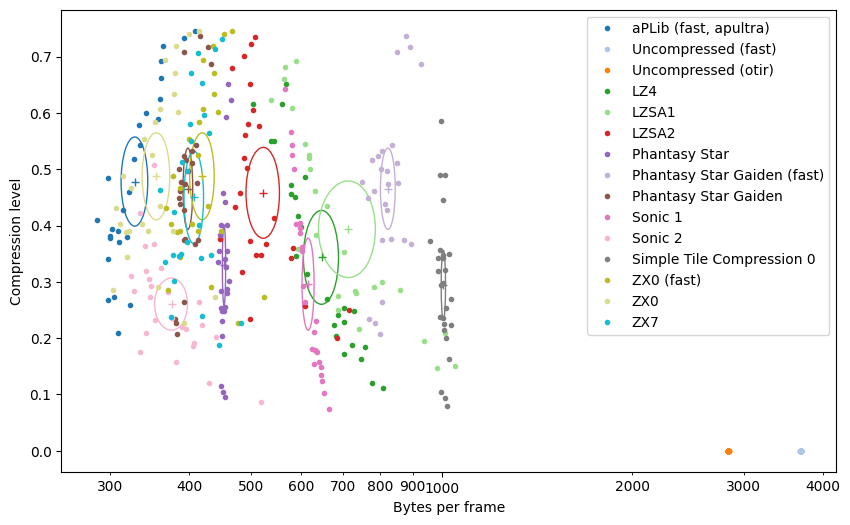
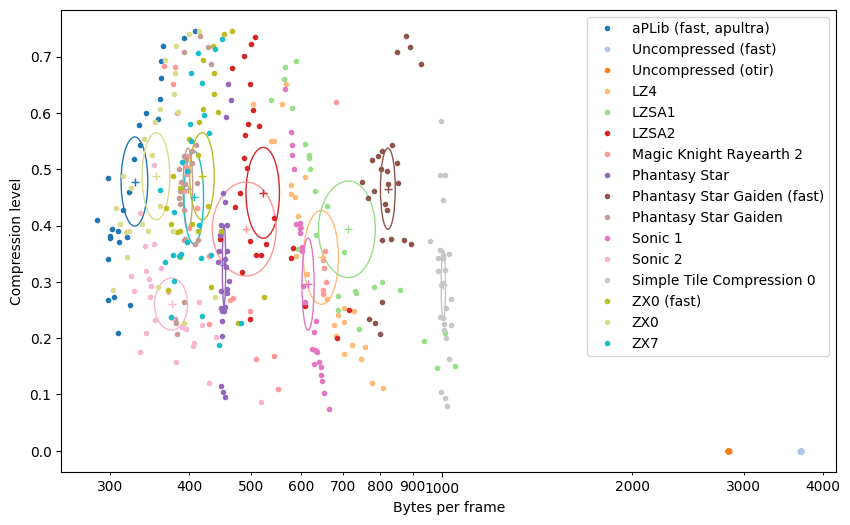
Fixed RLE mode, all tests now passing

diff --git a/compressors/gfxcomp_magicknight.cpp b/compressors/gfxcomp_magicknight.cpp
@@ -21,7 +21,7 @@ void rleEmitRaw(std::vector<uint8_t>& result, std::vector<uint8_t>& rawBytes)
     while (!rawBytes.empty())
     {
         const auto rawLength = std::min(0x7f, static_cast<int>(rawBytes.size()));
-        result.push_back(static_cast<uint8_t>(rawLength));
+        result.push_back(static_cast<uint8_t>(rawLength | 0x80));
         std::copy_n(rawBytes.begin(), rawLength, std::back_inserter(result));
         rawBytes.erase(rawBytes.begin(), rawBytes.begin() + rawLength);
     }
@@ -50,7 +50,7 @@ std::vector<uint8_t> compressRle(const std::vector<uint8_t>& data)
         std::vector<uint8_t> rawBytes;
         for (std::size_t offset = 0; offset < bitplane.size(); /* increment in loop */)
         {
-            // A run costs a byte to encode so a run of 3 or more is worth doing.
+            // A run costs 2 bytes to encode so a run of 3 or more is worth doing.
             // 2 would encode no better than a raw run.
             auto b = bitplane[offset];
             auto runLength = 1;
@@ -70,7 +70,7 @@ std::vector<uint8_t> compressRle(const std::vector<uint8_t>& data)
                 // Truncate if needed
                 runLength = std::min(0x7f, runLength);
                 // Emit it
-                result.push_back(static_cast<uint8_t>(0x80 | runLength));
+                result.push_back(static_cast<uint8_t>(runLength));
                 result.push_back(b);
                 offset += runLength;
             }
